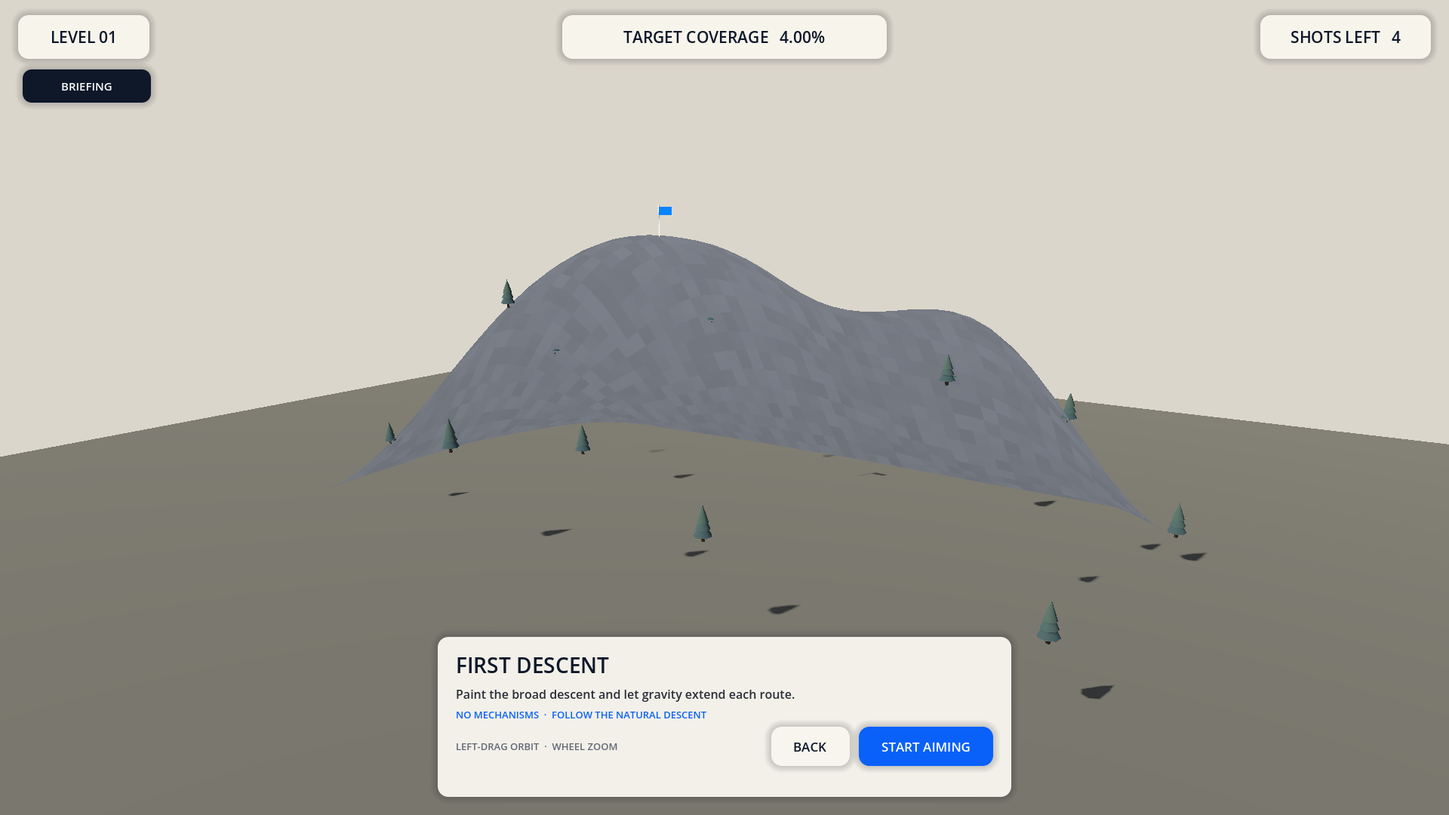
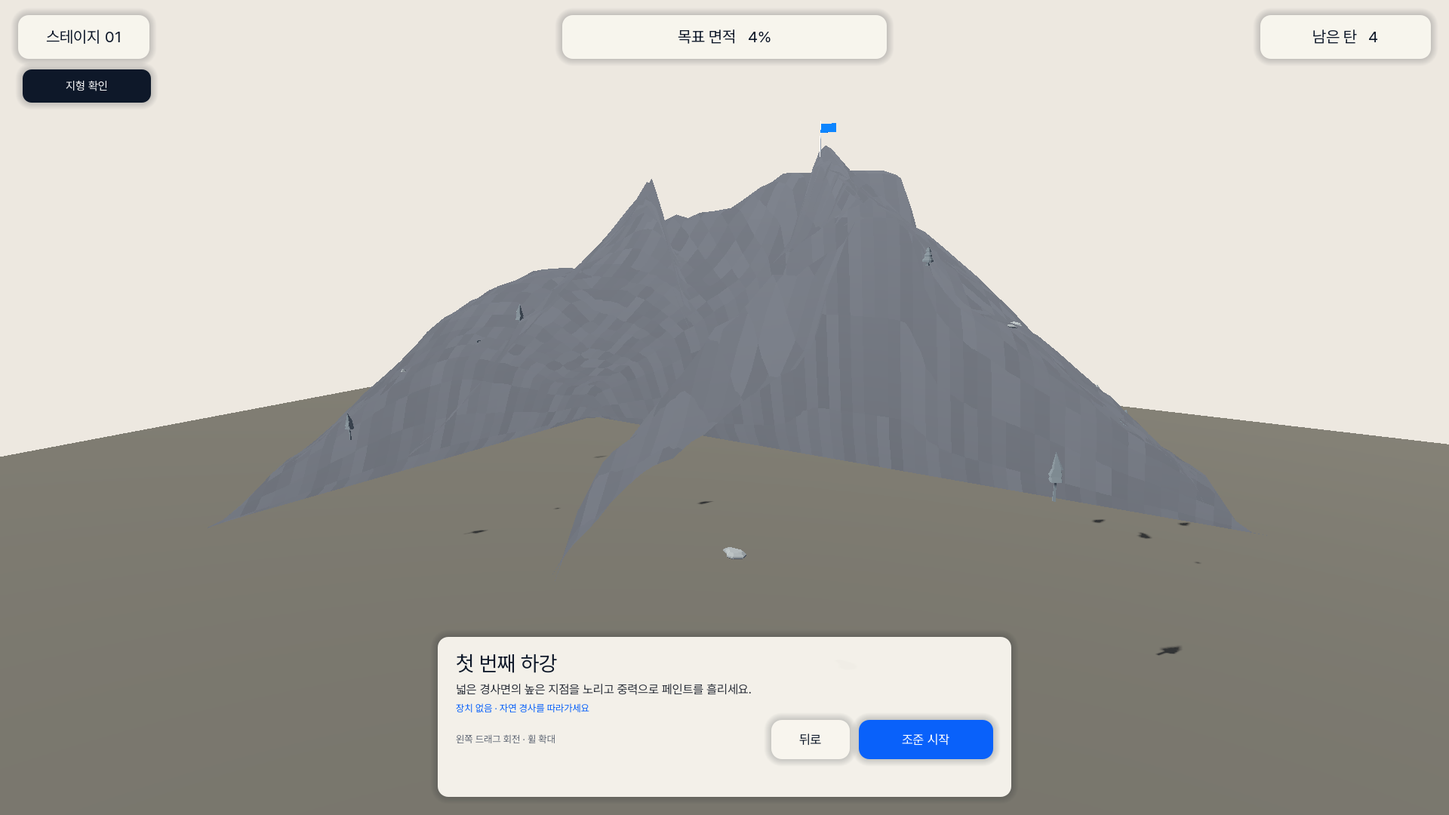
docs: record completed remediation release

diff --git a/docs/test-checklist.md b/docs/test-checklist.md
@@ -122,36 +122,47 @@ Run narrow checks throughout development, then complete this full checklist agai
 
 Generated terrain and placement:
 
-- [ ] Each stage generates from its frozen profile/base seed through the deterministic 32-attempt sequence or separately validated fallback, and repeated runs produce the same accepted seed and height-grid checksum.
-- [ ] One immutable generated layout supplies mesh, collision, paint height queries, eligible-mask inputs, decorations, mechanisms, replay metadata, and agent height observations; no fixed stage height function or second terrain representation remains.
-- [ ] First Descent, Burst Basin, and Split Ridge pass their exact route-count, width, meaningful-reversal, slope, edge-height, eligible-area, shelf, height, and 6,144-triangle checks.
-- [ ] Deterministic mechanism placement passes slope, spacing, bounds, route clearance, camera line-of-sight, projected-size, downstream-value, orientation, and stable tie-break checks without authored production X/Z fallback.
-- [ ] Stage 1 has no mechanism; Stage 2 has one Burst; Stage 3 has one Splitter and one Bumper, with all three distinct 3D silhouettes readable in both briefing and aiming captures.
-- [ ] Approved sparse nature dressing uses only the five manifest GLBs, stays outside route/mechanism clearance, does not affect collision, and preserves route readability.
+- [x] Each stage generates from its frozen profile/base seed through the deterministic 32-attempt sequence or separately validated fallback, and repeated runs produce the same accepted seed and height-grid checksum.
+- [x] One immutable generated layout supplies mesh, collision, paint height queries, eligible-mask inputs, decorations, mechanisms, replay metadata, and agent height observations; no fixed stage height function or second terrain representation remains.
+- [x] First Descent, Burst Basin, and Split Ridge pass their exact route-count, width, meaningful-reversal, slope, edge-height, eligible-area, shelf, height, and 6,144-triangle checks.
+- [x] Deterministic mechanism placement passes slope, spacing, bounds, route clearance, camera line-of-sight, projected-size, downstream-value, orientation, and stable tie-break checks without authored production X/Z fallback.
+- [x] Stage 1 has no mechanism; Stage 2 has one Burst; Stage 3 has one Splitter and one Bumper, with all three distinct 3D silhouettes readable in both briefing and aiming captures.
+- [x] Approved sparse nature dressing uses only the five manifest GLBs, stays outside route/mechanism clearance, does not affect collision, and preserves route readability.
 
 Aiming and controls:
 
-- [ ] Cursor hover, left-click lock, held drag retarget, and mechanism-center targeting work through `AimInputController`; `CannonController` contains no device polling.
-- [ ] The target solver uses the real 60 Hz gravity/damping/radius/collision model, returns the lowest valid elevation, rejects unreachable/occluded first impacts, and actual collision lands within 1.25 m of the selected target.
-- [ ] Invalid aim has red plus non-color feedback, retains the last valid cannon pose, disables Fire, and cannot consume a shot through mouse, keyboard, replay, debug, or agent paths.
-- [ ] Power minus/plus click, 300 ms hold delay, 80 ms repeat, wheel 1%, keyboard 2%, Space fire, and accessible A/D/W/S angle fallback match the frozen steps and do not double-fire.
-- [ ] At most 72 pooled trajectory dots and the distance-scaled impact marker remain legible through the actual first collision at 1280×720, 1600×900, and 1920×1080, with no post-impact route or coverage prediction.
+- [x] Cursor hover, left-click lock, held drag retarget, and mechanism-center targeting work through `AimInputController`; `CannonController` contains no device polling.
+- [x] The target solver uses the real 60 Hz gravity/damping/radius/collision model, returns the lowest valid elevation, rejects unreachable/occluded first impacts, and actual collision lands within 1.25 m of the selected target.
+- [x] Invalid aim has red plus non-color feedback, retains the last valid cannon pose, disables Fire, and cannot consume a shot through mouse, keyboard, replay, debug, or agent paths.
+- [x] Power minus/plus click, 300 ms hold delay, 80 ms repeat, wheel 1%, keyboard 2%, Space fire, and accessible A/D/W/S angle fallback match the frozen steps and do not double-fire.
+- [x] At most 72 pooled trajectory dots and the distance-scaled impact marker remain legible through the actual first collision at 1280×720, 1600×900, and 1920×1080, with no post-impact route or coverage prediction.
 
 Korean UI, visual direction, and approved assets:
 
-- [ ] Fresh saves and migrated V1 saves open in Korean; `ko`/`en` switching is immediate, complete, glyph-safe, and persistent after a fresh process; StageData and mechanisms store translation keys rather than display strings.
-- [ ] Pretendard 500/700/800 typography, frozen palette, card radii, minimum 40 px controls, focus outline, Korean wrapping, and disabled/invalid states apply coherently across menu, stage select, briefing, aiming, observation, results, pause, and settings.
-- [ ] The aiming HUD matches the frozen edge regions at all three resolutions: top stage/target/shots, mode chip, bottom-left aim/power, bottom-center coverage, bottom-right restart/fire, with no clipping, overflow, unsupported text-symbol icon, or center modal.
-- [ ] Terrain reads as a bright thick faceted/terraced mountain; paint reads as thick glossy blue routes; the cannon remains small; mechanisms remain visible; composition is compared directly with the supplied reference capture.
-- [ ] Only the exact 16 approved runtime files are present, every pinned file hash passes, four license texts are included, and `docs/asset-licenses.md` records official URL/version/hash/destination/use. The release works fully offline.
+- [x] Fresh saves and migrated V1 saves open in Korean; `ko`/`en` switching is immediate, complete, glyph-safe, and persistent after a fresh process; StageData and mechanisms store translation keys rather than display strings.
+- [x] Pretendard 500/700/800 typography, frozen palette, card radii, minimum 40 px controls, focus outline, Korean wrapping, and disabled/invalid states apply coherently across menu, stage select, briefing, aiming, observation, results, pause, and settings.
+- [x] The aiming HUD matches the frozen edge regions at all three resolutions: top stage/target/shots, mode chip, bottom-left aim/power, bottom-center coverage, bottom-right restart/fire, with no clipping, overflow, unsupported text-symbol icon, or center modal.
+- [x] Terrain reads as a bright thick faceted/terraced mountain; paint reads as thick glossy blue routes; the cannon remains small; mechanisms remain visible; composition is compared directly with the supplied reference capture.
+- [x] Only the exact 16 approved runtime files are present, every pinned file hash passes, four license texts are included, and `docs/asset-licenses.md` records official URL/version/hash/destination/use. The release works fully offline.
 
 Regression, solutions, and delivery:
 
-- [ ] The deterministic beam-search verification clears targets `4/27/70%` within `4/5/6` shots and the Stage 3 left-route-only path remains below 70%, without weakening projectile/mechanism/paint rules.
-- [ ] Existing projectile, paint, state, mechanism, content, save, replay, UI, debug, reliability, and performance checks pass after migration; format-2 replay validates profile/seed/checksum and deterministic shot results.
-- [ ] `scripts/verify.ps1` passes after the final scene/resource/project changes, and the Windows release export starts through the already registered fastrun command `& '.\builds\windows\PaintMountain.exe'`.
-- [ ] Fresh release-build screenshots replace all seven named files, are individually inspected at 1920×1080 without debug overlay, and include Korean/default UI plus the required gameplay states.
-- [ ] Final production evidence records generation attempts/time, load/restart time, average FPS, worst frame, memory, active-ball cap, persistence/replay results, console review, known limitations, and the exact tested Godot build.
+- [x] The deterministic beam-search verification clears targets `4/27/70%` within `4/5/6` shots and the Stage 3 left-route-only path remains below 70%, without weakening projectile/mechanism/paint rules.
+- [x] Existing projectile, paint, state, mechanism, content, save, replay, UI, debug, reliability, and performance checks pass after migration; format-2 replay validates profile/seed/checksum and deterministic shot results.
+- [x] `scripts/verify.ps1` passes after the final scene/resource/project changes, and the Windows release export starts through the already registered fastrun command `& '.\builds\windows\PaintMountain.exe'`.
+- [x] Fresh release-build screenshots replace all seven named files, are individually inspected at 1920×1080 without debug overlay, and include Korean/default UI plus the required gameplay states.
+- [x] Final production evidence records generation attempts/time, load/restart time, average FPS, worst frame, memory, active-ball cap, persistence/replay results, console review, known limitations, and the exact tested Godot build.
+
+## Observed Remediation Evidence (2026-08-03)
+
+- Godot `4.7.1.stable.official.a13da4feb` passed import, parse, main-scene smoke, and Windows release export checks with the Compatibility renderer at a fixed 60 Hz physics tick.
+- Deterministic generation accepted First Descent on attempt 1 in 166 ms (`seed 845487911`, checksum `3476095321`), Burst Basin on attempt 2 in 236 ms (`seed 1692123947`, checksum `1568157987`), and Split Ridge on attempt 30 in 1,878 ms (`seed 671737323`, checksum `3215880357`). Repeated generation matched each checksum.
+- Physical solutions reached 5.791%, 33.470%, and 74.359% for the `4/27/70%` targets. Burst activated in Stage 2; both Splitter and Bumper activated in Stage 3. The six-shot Stage 3 left-route-only guard reached 4.353% and failed below target.
+- The final 1920×1080 rendered Burst workload loaded in 459.79 ms, averaged 60.00 FPS over 360 frames, recorded a 20.18 ms worst frame, used 50.70 MiB static memory, and kept the measured active-ball count at one; separate mechanism checks retain the eight-ball hard cap. A second verbose run completed without the transient two-instance exit warning seen in the first process.
+- The state test measured a 1.073 ms restart. Thirty reliability cycles left no projectiles and measured a 2.056 ms slowest restart.
+- Fresh-process persistence preserved the explicit English locale and selection flag along with progression/results/settings. Fresh-process replay reproduced first impact and coverage with deltas of 0.00000 m and 0.00000 percentage points.
+- Korean and English captures were inspected at 1280×720 and 1600×900; settings, pause, menu, stage selection, and aiming controls stayed inside the viewport. Seven final Korean-default release-build images were inspected individually at exactly 1920×1080 with no debug overlay.
+- The Windows executable is unsigned and `builds/` remains intentionally ignored. Godot is not assumed to be on `PATH`; verification accepts an explicit `-GodotPath`.
 
 ## Observed Legacy Baseline Evidence (2026-08-02)
 

diff --git a/.agents/Documentation.md b/.agents/Documentation.md
@@ -14,7 +14,7 @@ related:
 
 ## Context
 
-The repository was created from a complete vertical-slice brief. The 2026-08-02 delivered baseline includes the verified projectile and preview, authoritative paint, gameplay loop, cameras, HUD, exactly three mechanisms, three fixed stages, progression/save, replay, UI-independent agent interface, application shell, debug tools, Windows export, and release screenshots. The user's later remediation directive adds requirements that this baseline does not yet implement.
+The repository was created from a complete vertical-slice brief. The 2026-08-02 baseline established the projectile, authoritative paint, gameplay loop, exactly three mechanisms, progression/save, replay, UI-independent agent interface, application shell, debug tools, Windows export, and release evidence. The 2026-08-03 remediation replaced fixed terrain and indirect controls with the completed deterministic generated-stage, direct-target, Korean-first presentation described below.
 
 ## Decision
 
@@ -28,7 +28,7 @@ The repository was created from a complete vertical-slice brief. The 2026-08-02 
 - `ReplayRecorder` stores ordered aim inputs and gameplay events with play/pause/restart and 1×/2× controls. `GameplayAgentApi` exposes the same validated aim/fire/restart/camera actions and structured observations without HUD or mouse coupling.
 - Split children are redirected toward the visible downhill face and disperse divided payload over wider lanes. This gives Split Ridge a difficult, high-value route while retaining the one-generation and eight-projectile limits.
 - `AppRoot` owns navigation among separate main-menu, stage-select, settings, and active-gameplay interfaces. Gameplay emits narrow navigation signals instead of knowing the application shell.
-- Presentation uses dependency-free low-poly dressing, a subtle unshaded terrain treatment, an eight-emitter paint-particle pool, bounded camera shake, and runtime-generated PCM music/SFX routed through Master/Music/SFX buses.
+- Presentation uses approved Kenney low-poly dressing and particle textures, bright faceted terrain, an eight-emitter paint-particle pool, bounded camera shake, and runtime-generated PCM music/SFX routed through Master/Music/SFX buses.
 - `DebugOverlay` is debug-build-only and derives four mask views plus metrics/actions from runtime owners; it exports ReplayRecorder-backed JSON rather than maintaining parallel gameplay state.
 - `DeliveryCaptureRunner` deterministically reproduces the seven evidence states only when explicit command-line arguments are present. `export_presets.cfg` owns the Windows Desktop release path.
 - `PaintSystem` keeps paint, eligible, recent, and derived excluded masks in byte buffers; threshold crossings update coverage incrementally and each dirty batch uploads once. This removed the measured Burst-frame stall without adding a second coverage authority.
@@ -48,13 +48,16 @@ The repository was created from a complete vertical-slice brief. The 2026-08-02 
 
 ## Current Remediation Status (2026-08-03)
 
-- `.agents/Plan.md` is the sole active execution plan and now fixes the terrain synthesis, difficulty profiles, seed sequence, mechanism placement, direct-target solver, control behavior, Korean copy/layout, approved asset manifest, persistence migration, verification search, and fastrun command before implementation.
-- External asset approval is resolved for the exact five Kenney Nature Kit GLBs, six Kenney Game Icons PNGs, four Kenney Particle Pack PNGs, and Pretendard Variable WOFF2 listed in the plan. No runtime asset has been imported at this record point.
-- The current game still uses `TerrainMeshFactory`'s three fixed analytic height functions and StageData-authored mechanism coordinates. Procedural generated layout ownership, placement validation, and immutable height-grid sharing are not implemented.
-- Burst, Splitter, and Bumper behaviors exist, but their current small script-built primitive visuals do not meet the new aiming-camera visibility and silhouette contract.
-- `CannonController` still owns device input and the game does not yet support mouse-selected first-impact targets, explicit invalid targeting, or the damped fixed-tick target solver.
-- The application still defaults to English, uses hardcoded visible strings/default typography, and does not yet ship Pretendard, real Korean/English translations, the V2 locale migration, or the reference-aligned HUD.
-- Existing release screenshots and performance evidence remain valid for the legacy baseline only. None is accepted as evidence for the remediation completion gates.
+- `.agents/Plan.md` completed all six phases and is lifecycle `done`. It remains a historical execution record; this document is the current implemented-state source.
+- `SeededStageGenerator` produces the exact three deterministic layouts from typed profiles. One accepted immutable `GeneratedStageLayout` supplies the 6,144-triangle mesh, collision, paint queries/mask inputs, dressing, mechanism placement, replay checksum, and agent height observations.
+- Stage profiles increase route count, reversals, shelves, and vertical complexity. Accepted seeds/checksums are First Descent `845487911/3476095321`, Burst Basin `1692123947/1568157987`, and Split Ridge `671737323/3215880357`.
+- Stage 1 has no mechanism, Stage 2 has one Burst, and Stage 3 has one Splitter plus one Bumper. Placement is deterministic and validated; distinct scene-authored 3D silhouettes, compact below-device labels, and validated camera bookmarks keep mechanisms readable.
+- `AimInputController` owns pointer/keyboard device input. It raycasts terrain/mechanisms, asks the fixed-tick damped `ImpactTargetSolver` for the lowest valid elevation at current power, exposes explicit invalid aim, and renders at most 72 dots through the real first collision. `CannonController` remains device-independent.
+- Power uses visible minus/plus controls, hold repeat, wheel fine tuning, and keyboard fallback; Space or Fire requests the same guarded shot action. A/D/W/S remain the accessible angle fallback.
+- The app ships complete `ko`/`en` translations, defaults new/V1-migrated saves to Korean, persists explicit locale choice in save format 2, and applies Pretendard plus shared UI primitives across menu, selection, settings, HUD, pause, and results.
+- The approved runtime import is complete: five Kenney Nature Kit GLBs, six Kenney Game Icons PNGs, four Kenney Particle Pack PNGs, Pretendard Variable WOFF2, and four local license files. `docs/asset-licenses.md` records the pinned hashes, provenance, and uses.
+- Physical reliable solutions clear `4/27/70%` targets at 5.791%, 33.470%, and 74.359%; Stage 2 activates Burst and Stage 3 activates both Splitter and Bumper. The six-shot Stage 3 left-route-only guard remains below target at 4.353%.
+- The final Godot 4.7.1 Windows release and seven Korean-default 1920×1080 screenshots replace the legacy evidence. Separate Korean/English 1280×720 and 1600×900 captures cover responsive settings, pause, menu, stage selection, and aiming.
 
 ## Historical Baseline Status (2026-08-02)
 
@@ -71,16 +74,21 @@ The repository was created from a complete vertical-slice brief. The 2026-08-02 
 ## Known Risks
 
 - Godot is not currently on PATH; local verification needs `-GodotPath` or a `GODOT_BIN` environment variable.
-- The generated-terrain validator thresholds and deterministic solution search are plan requirements, not implemented evidence; generation must fail closed rather than accepting an invalid layout.
-- The direct target solver must include the existing projectile linear damping. Reusing a no-damping analytic arc would make preview/impact validation diverge.
-- Korean localization, asset import, reference composition, mechanism projected size, and production screenshots remain open release blockers until their unchecked remediation gates pass.
+- Generation is intentionally bounded to 32 attempts and fails closed if both the sequence and validated fallback fail; profile changes must preserve that contract and update recorded checksums/solutions together.
+- The direct target solver includes projectile linear damping. Future ballistic changes must update launch, preview, physical-tolerance, replay, and aim-interaction checks together.
 - Final targets and recorded solutions are physically validated at 4%, 27%, and 70%; wider playtesting may still reveal alternative balance preferences.
 - Fresh-process replay is exact on the current Godot 4.7.1/Windows test machine, but engine or platform changes should rerun the documented tolerance probe.
 - The generated Windows executable is unsigned and `builds/` is ignored; distribution signing and packaging are outside this vertical-slice scope.
-- Dependency-free procedural art/audio meet the scoped presentation contract but are not a substitute for a later production content pass.
+- The imported low-poly models, UI icons, particles, and procedural audio meet the scoped vertical-slice presentation contract but are not a substitute for a later bespoke production-art/audio pass.
 
 ## Verification
 
+- Final tested engine: Godot `4.7.1.stable.official.a13da4feb`, Windows Compatibility renderer, Intel Iris Xe, fixed 60 Hz physics.
+- Final 2026-08-03 regression: every Phase 2–8 check plus `stage_generation_test.gd`, `mechanism_placement_test.gd`, `aim_interaction_test.gd`, and `localization_ui_test.gd` passed. `scripts/verify.ps1` passed after final scene/resource/script changes.
+- Generation: First Descent attempt 1/166 ms, Burst Basin attempt 2/236 ms, Split Ridge attempt 30/1,878 ms; repeated checksums matched. Physical clears were 5.791%, 33.470%, and 74.359%; the Stage 3 left-route-only guard failed at 4.353%.
+- Persistence/replay: format-2 save preserved explicit English selection across a fresh process; replay first-impact and coverage deltas were both zero.
+- Reliability/performance: 30 cycles left no projectile nodes; slowest restart was 2.056 ms. The final 1920×1080 Burst workload loaded in 459.79 ms, averaged 60.00 FPS, recorded a 20.18 ms worst frame, used 50.70 MiB static memory, and kept the observed active count within the tested bound. A confirming verbose run exited without the first run's transient two-instance ObjectDB warning.
+- Production: the release preset exported `builds/windows/PaintMountain.exe`; the registered fastrun command `& '.\builds\windows\PaintMountain.exe'` starts it. That executable generated the seven final 1920×1080 Korean-default screenshots, all individually inspected without the debug overlay.
 - Run: `powershell -ExecutionPolicy Bypass -File scripts/verify.ps1 -GodotPath <path-to-Godot-console.exe>`
 - Phase 2 pure check: `Godot_v4.7.1-stable_win64_console.exe --headless --path . --script res://tests/phase2_test.gd`
 - Phase 2 rigid-body check: `Godot_v4.7.1-stable_win64_console.exe --headless --path . --script res://tests/phase2_physics_test.gd`

diff --git a/.agents/Plan.md b/.agents/Plan.md
@@ -1,6 +1,6 @@
 ---
 type: plan
-status: active
+status: done
 created: 2026-08-02
 last_reviewed: 2026-08-03
 scope: procedural stage generation, mechanism placement, aiming interaction, Korean-first UI, visual remediation, and licensed asset integration
@@ -17,7 +17,7 @@ related:
 
 # Paint Mountain Core Experience Remediation Plan
 
-The current build contains the original three-stage rules, paint mask, projectile physics, mechanisms, replay, and export path, but it does not yet deliver the requested procedural mountain progression, readable item placement, Korean-first interface, direct aiming interaction, or reference-level visual composition. This plan replaces the completed vertical-slice plan with six executable remediation phases that preserve the working gameplay owners while rebuilding the visible core experience.
+At plan creation, the baseline contained the original three-stage rules, paint mask, projectile physics, mechanisms, replay, and export path but lacked procedural progression, readable placement, Korean-first UI, direct targeting, and the target composition. The six phases below were executed to preserve the working gameplay owners while rebuilding the visible core experience; all completion gates passed on 2026-08-03.
 
 ## Purpose
 
@@ -361,17 +361,17 @@ Goal: replace the English placeholder presentation with one coherent localized i
 
 Source owners touched: `translations/ui.csv`, `resources/ui/paint_mountain_theme.tres`, `assets/fonts/pretendard/*`, `assets/ui/icons/*`, `src/ui/*`, `src/app/app_root.gd`, `src/autoload/save_system.gd`, `project.godot`, `docs/asset-licenses.md`, `tests/localization_ui_test.gd`
 
-- [ ] **5.1 Import the approved font/icons/particles and record provenance**
+- [x] **5.1 Import the approved font/icons/particles and record provenance**
   - As-is: no external runtime assets or font license ledger.
   - To-be: commit only selected source files and licenses, wire Pretendard as the Theme default, and map approved icons/particles to semantic uses.
   - Accept: each imported file has source, license, version/date, and usage; release works offline.
   - Guard: no CDN, remote runtime asset, full unused pack, or unapproved license enters the repo.
-- [ ] **5.2 Implement real `ko`/`en` localization and save migration**
+- [x] **5.2 Implement real `ko`/`en` localization and save migration**
   - As-is: visible English literals and an `en`-only selector.
   - To-be: translation keys cover menus, HUD, mechanisms, results, errors, tutorials, and settings; fresh saves default to Korean; existing saves migrate safely.
   - Accept: locale switches immediately, persists across a fresh process, and every screen shows complete glyphs.
   - Guard: stage rules and identifiers remain locale-independent.
-- [ ] **5.3 Recompose HUD and app screens from shared primitives**
+- [x] **5.3 Recompose HUD and app screens from shared primitives**
   - As-is: duplicated fixed style overrides and weak hierarchy.
   - To-be: one Theme and responsibility-shaped components implement the reference regions, spacing, controls, focus, and localized text fit.
   - Accept: aiming matches the report hierarchy; briefing, observation, result, stage select, menu, pause, and settings are visually coherent at 1280×720, 1600×900, and 1920×1080.
@@ -387,17 +387,17 @@ Goal: validate gameplay quality, visual target, determinism, performance, persis
 
 Source owners touched: `resources/stages/*.tres`, `docs/test-checklist.md`, `.agents/Documentation.md`, `README.md`, `screenshots/*.png`, `export_presets.cfg`
 
-- [ ] **6.1 Freeze generated results and verify scripted solutions**
+- [x] **6.1 Freeze generated results and verify scripted solutions**
   - As-is: solutions target fixed formula terrain.
   - To-be: the predetermined seed sequence, targets `4/27/70%`, shots `4/5/6`, and one recorded reliable route per accepted layout preserve the three teaching roles without manual parameter selection.
   - Accept: all three physical solution tests clear and a safe inefficient Stage 3 route remains below target by design.
   - Guard: do not compensate for bad terrain by inflating mechanism paint or weakening core physics.
-- [ ] **6.2 Run visual comparison and accessibility checks**
+- [x] **6.2 Run visual comparison and accessibility checks**
   - As-is: existing checks prove clipping only.
   - To-be: compare fresh running screenshots against the provided reference and generated target for composition, mechanism visibility, terrain depth, paint thickness, hierarchy, font, and Korean fit.
   - Accept: UIUX Level 4 evidence reports no blocker; every important state has a valid capture.
   - Guard: generated concepts are never substituted for runtime evidence.
-- [ ] **6.3 Complete production regression and delivery**
+- [x] **6.3 Complete production regression and delivery**
   - As-is: the prior release passes the old checklist.
   - To-be: run all old and new tests, export release, launch it, measure performance, verify persistence/replay, and replace the seven named running-game screenshots.
   - Accept: the complete updated checklist passes and `Documentation.md` records observed results and limitations.
@@ -469,29 +469,26 @@ Rerun policy:
 - [x] Planning evidence: `docs/remediation-report.html` and its local images prepared for review.
 - [x] External approval: the exact four-source asset import was approved on 2026-08-03; archive members, destinations, uses, and hashes are frozen above.
 - [x] Phase 1: product contract and regression fixtures.
-- [ ] Phase 2: one generated playable stage.
-- [ ] Phase 3: difficulty scaling and mechanism placement/visuals.
-- [ ] Phase 4: aiming and power interaction.
-- [ ] Phase 5: Korean-first theme, layout, and approved assets.
-- [ ] Phase 6: tuning, production QA, and delivery.
+- [x] Phase 2: one generated playable stage.
+- [x] Phase 3: difficulty scaling and mechanism placement/visuals.
+- [x] Phase 4: aiming and power interaction.
+- [x] Phase 5: Korean-first theme, layout, and approved assets.
+- [x] Phase 6: tuning, production QA, and delivery.
 
 ## Next Steps
 
-1. Start with Phase 1 and keep the game behavior unchanged while correcting active specs and baseline checks.
-2. Deliver Phase 2 as the first user-testable implementation checkpoint before touching all screens.
-3. Continue through Phases 3–5 in order and import only the approved exact asset manifest.
-4. Finish with Phase 6 only after every earlier batch gate passes.
+All six remediation phases completed on 2026-08-03. Future changes should begin from the implemented-state record in `Documentation.md` and open a new plan only when they meet the repository ExecPlan threshold.
 
 ## Completion Criteria
 
-- [ ] Three fixed seeds reproduce three valid generated layouts with the specified route/reversal/width bands and one reliable solution each.
-- [ ] Burst, Splitter, and Bumper are visible, distinct, correctly placed, and behaviorally unchanged.
-- [ ] Mouse target selection, explicit power controls, Space/Button fire, invalid state, and first-collision preview pass input and physics checks.
-- [ ] A fresh install defaults to complete Korean UI, English remains selectable, both persist, and Pretendard renders without missing glyphs or clipping.
-- [ ] Running release screenshots match the reference hierarchy and show a stepped large mountain, thick readable paint, small cannon, and visible mechanisms.
-- [ ] Every imported asset is approved, locally stored, offline-safe, and recorded with its license/source.
-- [ ] Every existing gameplay, paint, mechanism, save, replay, reliability, performance, and production-delivery guard passes.
-- [ ] No retired fixed terrain formula, authored production placement, English-only visible string, duplicate paint authority, placeholder plan text, or unreported limitation remains.
+- [x] Three fixed seeds reproduce three valid generated layouts with the specified route/reversal/width bands and one reliable solution each.
+- [x] Burst, Splitter, and Bumper are visible, distinct, correctly placed, and behaviorally unchanged.
+- [x] Mouse target selection, explicit power controls, Space/Button fire, invalid state, and first-collision preview pass input and physics checks.
+- [x] A fresh install defaults to complete Korean UI, English remains selectable, both persist, and Pretendard renders without missing glyphs or clipping.
+- [x] Running release screenshots match the reference hierarchy and show a stepped large mountain, thick readable paint, small cannon, and visible mechanisms.
+- [x] Every imported asset is approved, locally stored, offline-safe, and recorded with its license/source.
+- [x] Every existing gameplay, paint, mechanism, save, replay, reliability, performance, and production-delivery guard passes.
+- [x] No retired fixed terrain formula, authored production placement, English-only visible string, duplicate paint authority, placeholder plan text, or unreported limitation remains.
 
 ## Stop Conditions
 

diff --git a/README.md b/README.md
@@ -1,6 +1,6 @@
 # Paint Mountain
 
-Paint Mountain is a complete three-stage 3D physics-puzzle vertical slice about launching finite-payload paintballs from a small foreground cannon onto a large distant mountain. It includes progression, saves, deterministic replay, a UI-independent agent API, release-disabled debug tooling, a Windows export preset, and final running-build evidence.
+Paint Mountain is a complete Korean-first, three-stage 3D physics-puzzle vertical slice about launching finite-payload paintballs from a small foreground cannon onto a large generated mountain. It includes deterministic stage/placement generation, direct impact targeting, three mechanisms, progression, saves, replay, a UI-independent agent API, release-disabled debug tooling, approved offline assets, a Windows export preset, and final running-build evidence.
 
 ## Engine
 
@@ -35,14 +35,21 @@ Create the production-style Windows build with:
 
 The executable is unsigned and the generated `builds/` directory is intentionally not tracked.
 
+The repository is also registered in fastrun-manager with the canonical project command:
+
+```powershell
+& '.\builds\windows\PaintMountain.exe'
+```
+
 ## Current Gameplay Controls
 
-- `A` / `D`: adjust cannon yaw.
-- `W` / `S`: adjust elevation.
-- `Q` / `E` or mouse wheel: adjust power.
-- Left-drag: adjust yaw and elevation.
+- Mouse hover: preview a solvable first-impact target and its complete trajectory.
+- Left-click or held drag: lock or retarget the terrain/mechanism impact point.
+- Mouse wheel or visible `−/+`: fine-tune power; holding the buttons repeats.
+- `-` / `=`: adjust power by 2%.
+- `A` / `D` and `W` / `S`: accessible yaw/elevation fallback.
 - `Space`: fire when no projectile is active.
-- `R`: clear the current projectile and reset aiming.
+- `R`: restart the stage.
 - `Tab`: switch between briefing inspection and aiming.
 - `Esc`: pause; Resume returns to the prior gameplay state.
 - `F3`: toggle the developer overlay in debug builds only.
@@ -51,13 +58,14 @@ Main menu, stage select, full settings, briefing orbit/zoom, follow/wide/cannon 
 
 ## Project Structure
 
-- `scenes/bootstrap/`: temporary runnable 3D smoke scene.
-- `scenes/sandbox/`: current cannon/projectile validation entry.
-- `scenes/gameplay/`: current state-driven game entry and reusable cannon scene.
+- `scenes/bootstrap/`: isolated 3D engine/render smoke scene.
+- `scenes/sandbox/`: cannon/projectile validation scene.
+- `scenes/gameplay/`: state-driven game scene and reusable cannon scene.
 - `scenes/app/`, `src/app/`, `src/ui/`: application entry, navigation, shared UI components, screens, and gameplay HUD.
-- `src/cannon/`, `src/projectile/`, `src/terrain/`: Phase 2 runtime owners.
+- `src/stage_generation/`, `resources/stage_generation/`: deterministic path-first terrain profiles, accepted layouts, placement, and dressing metadata.
+- `src/cannon/`, `src/projectile/`, `src/terrain/`, `src/paint/`: direct targeting/ballistics, projectile lifecycle, generated terrain rendering, and authoritative paint.
 - `src/mechanisms/`: shared activation contract and the Burst, Splitter, and Bumper implementations.
-- `src/stage/`, `resources/stages/`: stage state, exact three-stage catalog, placements, targets, cameras, and recorded solutions.
+- `src/stage/`, `resources/stages/`: stage state, exact three-stage catalog, generation references, targets, cameras, and recorded solutions.
 - `src/autoload/`, `src/replay/`, `src/agent/`: progression/persistence, replay, and UI-independent actions/observations.
 - `src/debug/`, `src/delivery/`: release-disabled diagnostics and deterministic running-build capture support.
 - `src/bootstrap/`: isolated bootstrap-only setup and procedural mountain proxy.
@@ -74,7 +82,7 @@ The planned gameplay ownership boundaries are defined in `docs/technical-archite
 - Godot is not assumed to be installed on PATH.
 - The Windows executable is unsigned and must be built locally with matching Godot export templates.
 - Physics replay is deterministic within the measured test-machine tolerance; engine/platform changes should rerun the replay probe.
-- Art and audio are dependency-free procedural vertical-slice assets rather than a production content pack.
+- Approved Kenney/Pretendard assets and procedural audio meet the vertical-slice target; bespoke production art, animation, audio, signing, and installer packaging remain outside scope.
 
 ## Development Contract
 
